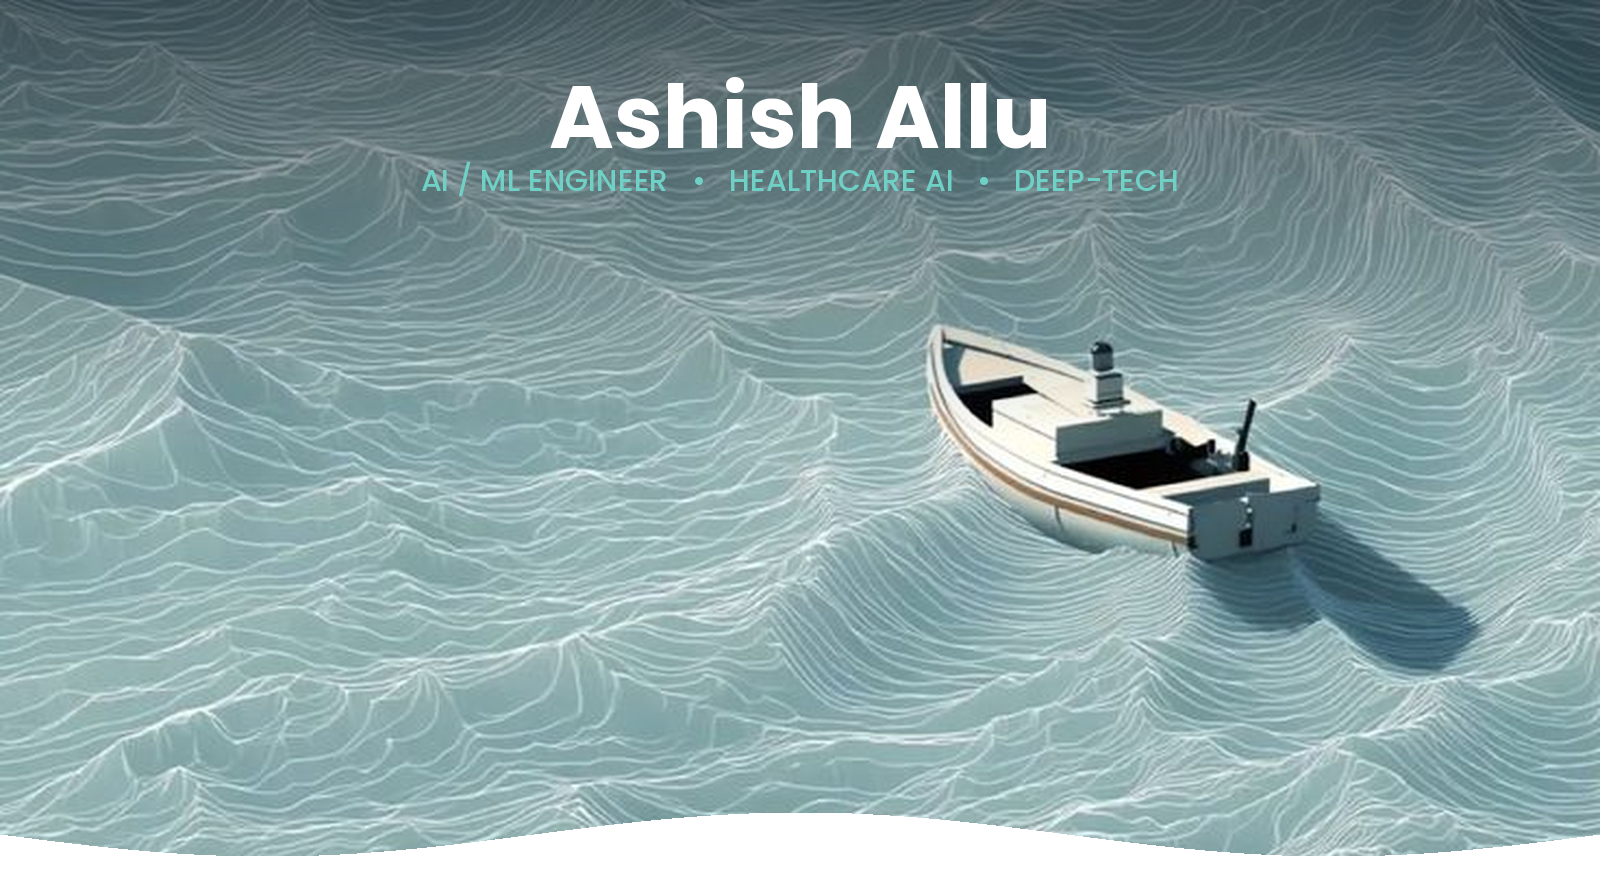
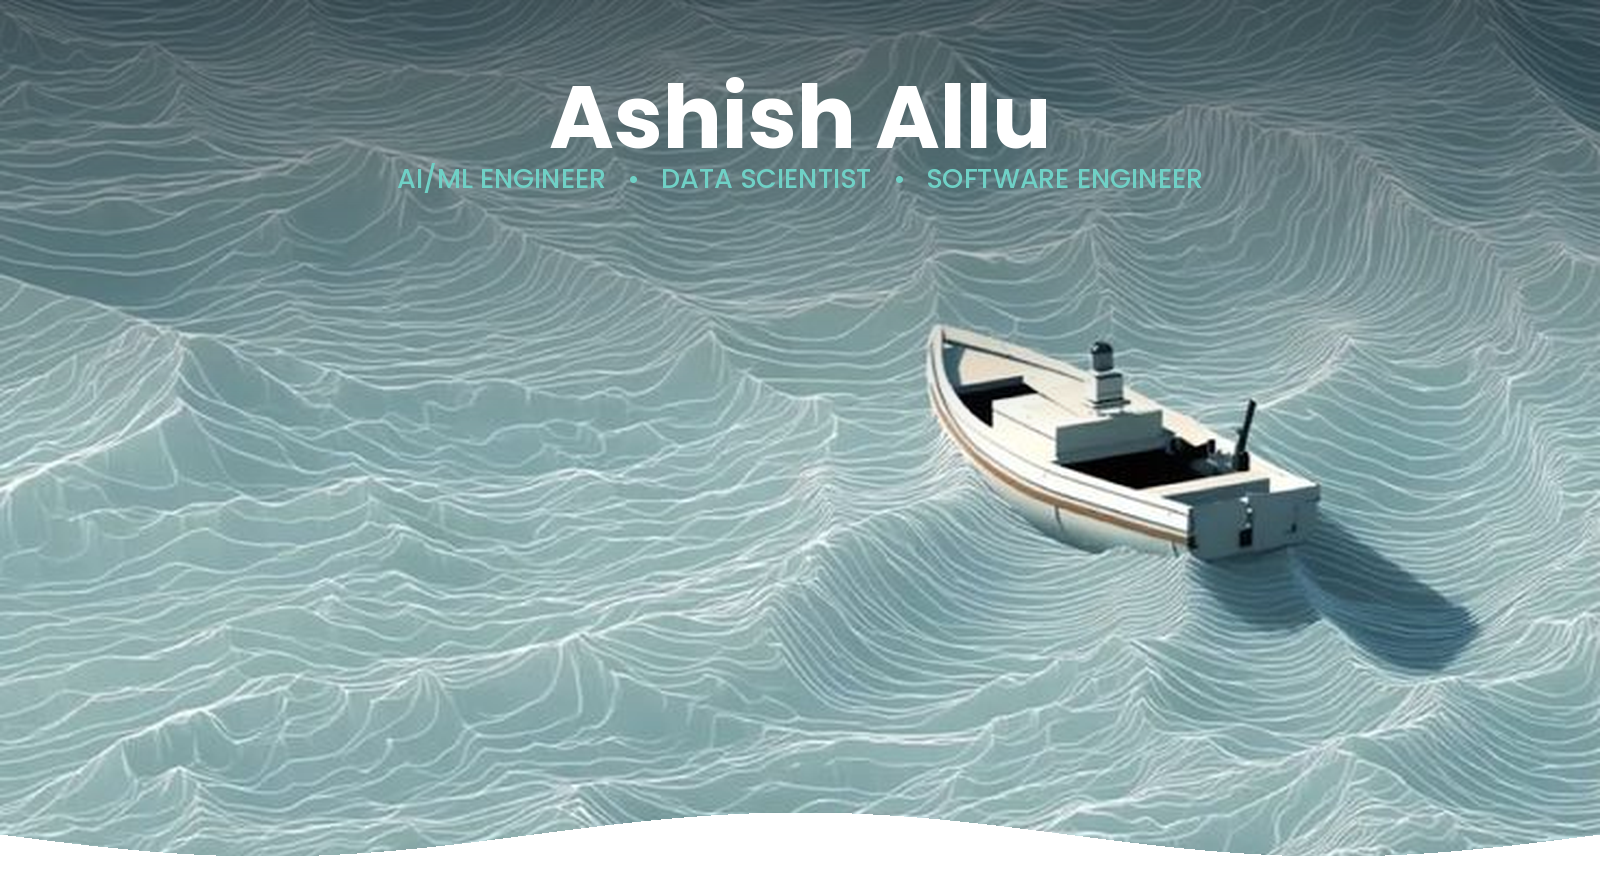
Add files via upload

Changed region(s): [[0.25, 0.1864, 0.75, 0.2175]]

diff --git a/README.md b/README.md
@@ -1,19 +1,15 @@
 <div align="center">
 
-<!-- Hero banner — your uploaded ocean artwork, with name + tagline composited in, wave-cut at the bottom edge. Commit this file to /banner.png -->
 <img src="banner.png" width="100%"/>
 
 <br/><br/>
 
 <a href="https://github.com/ashishallu">
-  <img src="https://readme-typing-svg.demolab.com?font=Poppins&weight=600&size=22&duration=3000&pause=1000&color=0E7C7B&center=true&vCenter=true&width=650&lines=Final-Year+AI+%26+Data+Science+Engineer;Building+Explainable+%26+Responsible+AI;Healthcare+AI+%7C+Fraud+Detection+%7C+Deep-Tech;Open+to+AI%2FML+Internships+2026" alt="Typing SVG" />
+  <img src="https://readme-typing-svg.demolab.com?font=Poppins&weight=600&size=22&duration=3000&pause=1000&color=0E7C7B&center=true&vCenter=true&width=650&lines=Final-Year+AI+%26+Data+Science+Engineer;AI%2FML+Engineer+%7C+Data+Scientist+%7C+SWE;Building+Explainable+%26+Responsible+AI;Open+to+AI%2FML+Internships+2026" alt="Typing SVG" />
 </a>
-
-<sub>↑ cycles through 4 phrases live on GitHub — a screenshot only ever catches one mid-type frame</sub>
 
 <br/><br/>
 
-<!-- Socials — tropical daylight palette -->
 <a href="https://v0-portfolio-ashishallu.vercel.app/" target="_blank"><img src="https://img.shields.io/static/v1?label=&message=PORTFOLIO&color=1CA9A5&style=for-the-badge"/></a>
 <a href="https://github.com/ashishallu" target="_blank"><img src="https://img.shields.io/static/v1?label=&message=GITHUB&color=14252E&style=for-the-badge&logo=github&logoColor=white"/></a>
 <a href="https://www.linkedin.com/in/venkata-ashish-allu/" target="_blank"><img src="https://img.shields.io/static/v1?label=&message=LINKEDIN&color=0A66C2&style=for-the-badge&logo=linkedin&logoColor=white"/></a>
@@ -23,17 +19,14 @@
 
 <img src="divider-ocean-1.jpg" width="100%"/>
 
-<br/>
-
 ## About Me
 
-I engineer end-to-end AI systems that don't just predict — they explain themselves. Currently finishing my B.E. in Artificial Intelligence and Data Science at CBIT Hyderabad, I design and ship production-style pipelines across **healthcare diagnostics, fraud detection, and financial compliance**, using open-source stacks with zero paid dependencies.
+I'm an **AI/ML Engineer, Data Scientist, and Software Engineer** finishing my B.E. in Artificial Intelligence and Data Science at CBIT Hyderabad. I design and ship production-style systems — models that explain their own decisions, pipelines that hold up at scale, and APIs built the way a real engineering team would build them — using open-source stacks with zero paid dependencies.
 
-- 🔬 Architecting **explainable AI** systems (SHAP, LIME, Grad-CAM) for high-stakes domains
-- 🏥 Focused on **healthcare AI** — diagnostic imaging, clinical trial prediction, patient-data systems
-- 🌊 Building **graph-based fraud detection** at streaming scale (Kafka + PySpark + GNNs)
+- 🔬 Explainable AI systems (SHAP, LIME, Grad-CAM) for high-stakes, regulated domains
+- 🌊 Graph-based fraud detection at streaming scale (Kafka + PySpark + GNNs)
+- 🧠 Full-stack ML — from model training to FastAPI microservices and deployable APIs
 - 🏆 Best Use Case Award — SRM-AP Quantum Hackathon (Post-Quantum Cryptography)
-- 🎯 Targeting AI/ML roles in healthcare AI and deep-tech, and long-term: a PhD and a deep-tech startup
 
 <br/>
 
@@ -41,45 +34,17 @@ I engineer end-to-end AI systems that don't just predict — they explain themse
 
 <div align="center">
 
-**Languages & Core**
-<br/><br/>
-<img src="python.png" width="56" height="56"/>&nbsp;&nbsp;
-<img src="postgresql.png" width="56" height="56"/>
+**Languages & Core** &nbsp; <img src="python.png" width="42" height="42"/> <img src="postgresql.png" width="42" height="42"/>
 
-<br/><br/>
+**ML & Explainability** &nbsp; <img src="pytorch.png" width="42" height="42"/> <img src="xgboost.png" width="42" height="42"/> <img src="shap.png" width="42" height="42"/> <img src="lime.png" width="42" height="42"/> <img src="biobert.png" width="42" height="42"/> <img src="gradcam.png" width="42" height="42"/>
 
-**Machine Learning & Explainability**
-<br/><br/>
-<img src="pytorch.png" width="56" height="56"/>&nbsp;&nbsp;
-<img src="xgboost.png" width="56" height="56"/>&nbsp;&nbsp;
-<img src="shap.png" width="56" height="56"/>&nbsp;&nbsp;
-<img src="lime.png" width="56" height="56"/>&nbsp;&nbsp;
-<img src="biobert.png" width="56" height="56"/>&nbsp;&nbsp;
-<img src="gradcam.png" width="56" height="56"/>
+**Data & Streaming** &nbsp; <img src="apachekafka.png" width="42" height="42"/> <img src="apachespark.png" width="42" height="42"/> <img src="chromadb.png" width="42" height="42"/> <img src="ollama.png" width="42" height="42"/>
 
-<br/><br/>
-
-**Data Engineering & Streaming**
-<br/><br/>
-<img src="apachekafka.png" width="56" height="56"/>&nbsp;&nbsp;
-<img src="apachespark.png" width="56" height="56"/>&nbsp;&nbsp;
-<img src="chromadb.png" width="56" height="56"/>&nbsp;&nbsp;
-<img src="ollama.png" width="56" height="56"/>
-
-<br/><br/>
-
-**Apps & Infrastructure**
-<br/><br/>
-<img src="docker.png" width="56" height="56"/>&nbsp;&nbsp;
-<img src="git.png" width="56" height="56"/>&nbsp;&nbsp;
-<img src="github.png" width="56" height="56"/>&nbsp;&nbsp;
-<img src="streamlit.png" width="56" height="56"/>
+**Apps & Infra** &nbsp; <img src="docker.png" width="42" height="42"/> <img src="git.png" width="42" height="42"/> <img src="github.png" width="42" height="42"/> <img src="streamlit.png" width="42" height="42"/>
 
 </div>
 
 <img src="divider-ocean-2.jpg" width="100%"/>
-
-<br/>
 
 ## Featured Projects
 
@@ -122,44 +87,22 @@ Predicts patient dropout risk in clinical trials using CDASH-style synthetic dat
 </tr>
 </table>
 
-<div align="center">
-<a href="https://github.com/ashishallu?tab=repositories">
-<img src="https://img.shields.io/badge/View_All_Repositories-1CA9A5?style=for-the-badge&logo=github&logoColor=white"/>
-</a>
-</div>
-
-<br/>
-
 <img src="divider-ocean-3.jpg" width="100%"/>
-
-<br/>
 
 ## Certifications
 
-<div align="center">
-
-<img src="https://img.shields.io/static/v1?label=&message=AWS+Certified+CloudOps+Engineer+Associate&color=1CA9A5&style=for-the-badge"/>
-<img src="https://img.shields.io/static/v1?label=&message=IBM+Enterprise+Data+Science&color=0E7C7B&style=for-the-badge"/>
-<br/>
-<img src="https://img.shields.io/static/v1?label=&message=Oracle+AI+Foundations+Associate&color=C9974B&style=for-the-badge"/>
-<img src="https://img.shields.io/static/v1?label=&message=Business+Analytics+%E2%80%93+Skill+India+NSDC&color=14252E&style=for-the-badge"/>
-
-</div>
+- **AWS Certified CloudOps Engineer – Associate**
+- **IBM Enterprise Data Science**
+- **Oracle AI Foundations Associate**
+- **Business Analytics** — Skill India (NSDC)
 
 <br/>
 
-## Currently
+## What Drives Me
 
-<div align="center">
+I'm drawn to problems where an AI system's decision needs to be trusted, not just accurate — that's what pulls me toward explainability and responsible AI. I like working across the full stack of a problem: framing it, training the model, and then building the engineering around it that makes it usable in the real world. Longer-term, I'm working toward a PhD, and eventually building something of my own in deep-tech.
 
-|  |  |
-|---|---|
-| 🚀 | Building a **Healthcare Appointment & Records Microservices Platform** (FastAPI, PostgreSQL, Redis, JWT) to round out REST API and systems-design skills |
-| 🎯 | Preparing for the **Jan–Apr 2027 internship cycle**, targeting AI/ML and healthcare AI roles |
-| 🏆 | Former **Events Head, CBIT Student Technical Association** — directed a national-scale hackathon |
-| 📚 | Long-term: pursuing a **PhD** and building toward a **deep-tech startup** |
-
-</div>
+<br/>
 
 <div align="center">
 <img src="footer.png" width="100%"/>
